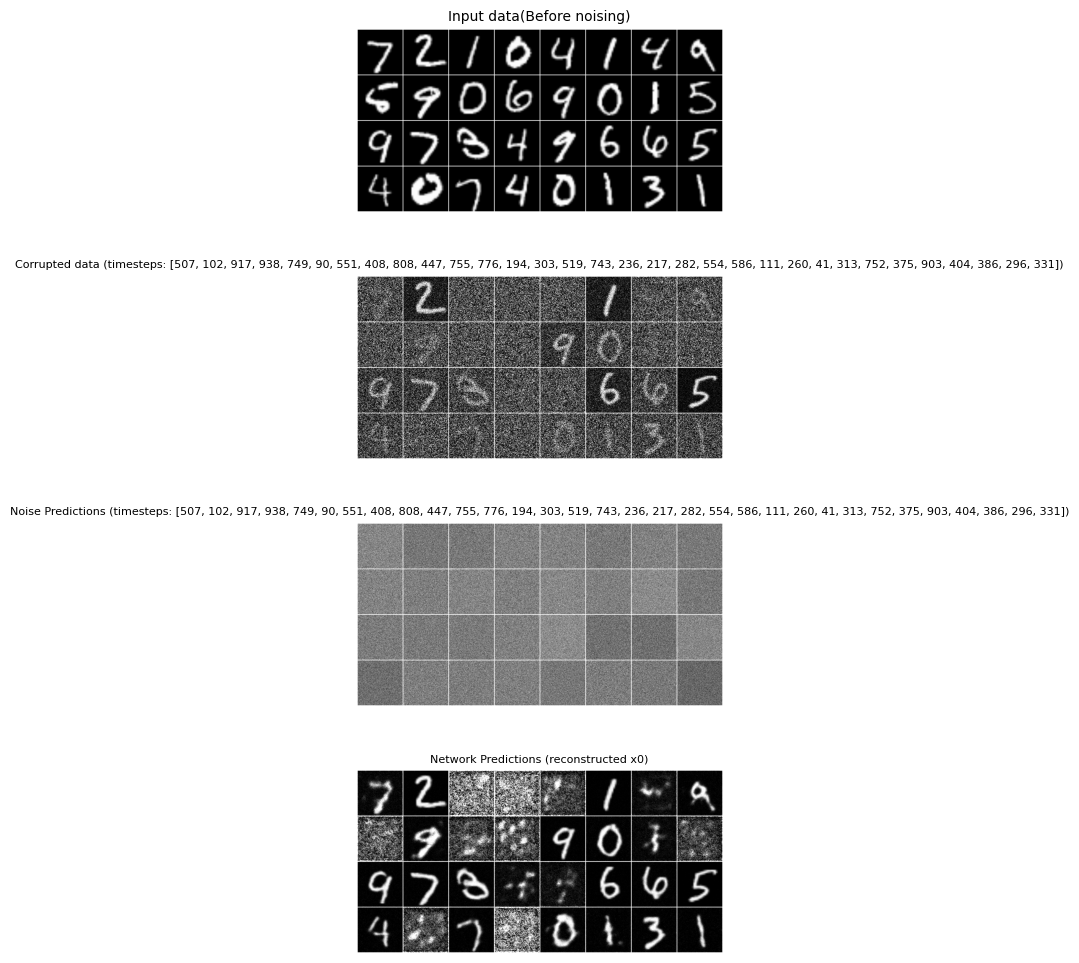
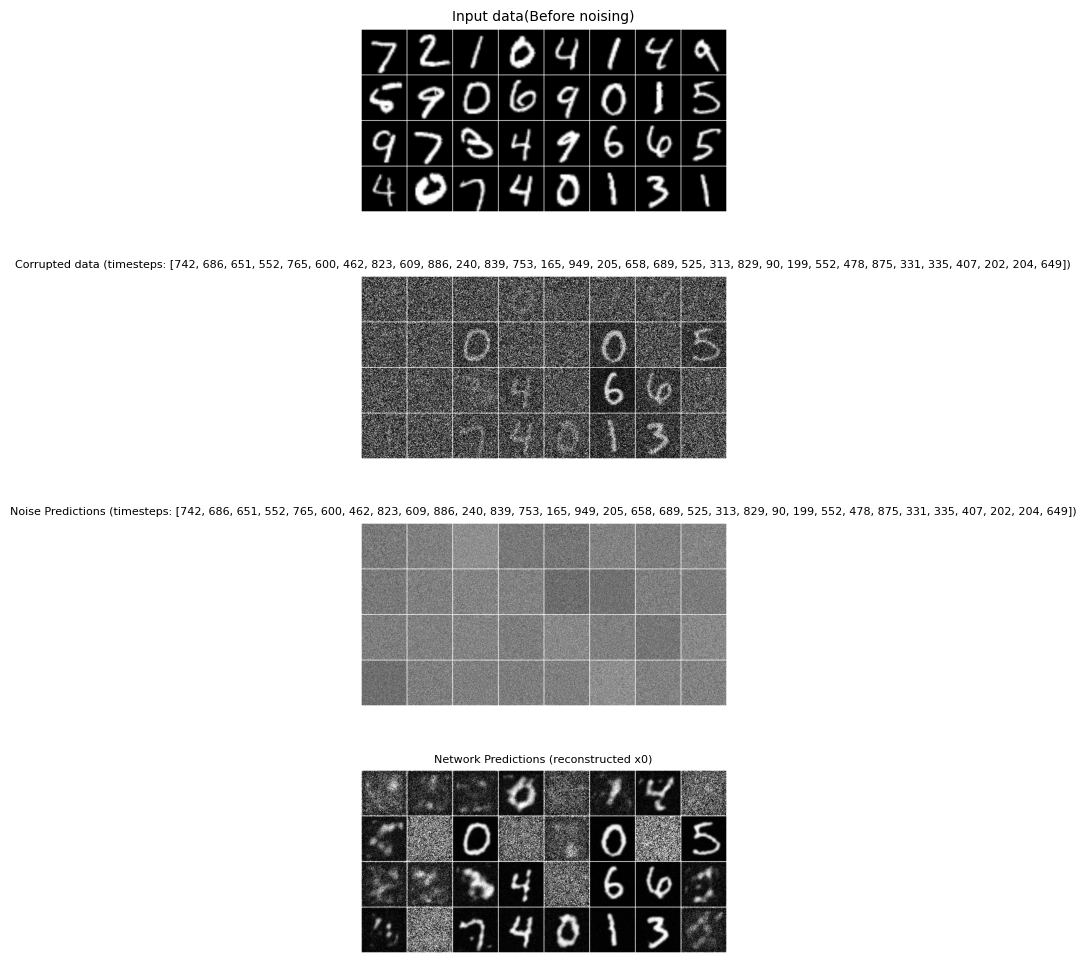
debug. checked samples for training, added sample analysis, ema during training and saved model for eval

diff --git a/train.py b/train.py
@@ -32,7 +32,7 @@ autocast_device = "cuda" if device.type == "cuda" else "cpu"
 # Sets scaler
 scaler = GradScaler()
 # ----------------------------------------------
-# TODO: Train for 300 epochs
+# TODO: Train for another 100 epochs on fresh model. Evaluate ema model also
 # ----------------------------------------------
 # *Parse command line arguments
 def parse_args():
@@ -53,6 +53,7 @@ if __name__ == "__main__":
     Test = args.test
     max_timesteps = args.max_timesteps
     Checkpoint = args.checkpoint
+    current_epoch = 0
     if Checkpoint:
         if not args.model_name:
             print("Warning: --checkpoint set but no --model_name provided. Exiting.")
@@ -68,12 +69,17 @@ if __name__ == "__main__":
         if m:
             current_epoch = int(m.group(1) or m.group(2))
             print(f"Resuming training from epoch {current_epoch}")
+            num_epochs = num_epochs - current_epoch
         else:
             current_epoch = 0
         
     else:
-        if os.path.isempty('models'):
+        if not os.path.exists('models'):
             print("No models directory found. Training from scratch.")
+            os.makedirs('models', exist_ok=True)
+            model_name = args.model_name
+        if os.path.exists('model') and not os.path.listdir('models'):
+            print("Models directory is empty. Training from scratch.")
             model_name = "model"
         else:
             model_name = args.model_name
@@ -123,16 +129,17 @@ if __name__ == "__main__":
     ema = ExponentialMovingAverage(model, decay=0.9999)
 
     if Checkpoint:
-        ckpt_file = os.path.join("models", "checkpoints", f"{model_name}_{'Batch_size_', batch_size}_{'Max_timesteps_', max_timesteps}{'_test' if Test else ''}_{current_epoch}.pth")
+        ckpt_file = os.path.join("models", "checkpoints", f"{model_name}.pth")
         ckpt = torch.load(ckpt_file, map_location=device)
         model.load_state_dict(ckpt["model_state_dict"])
         optimizer.load_state_dict(ckpt.get("optimizer_state_dict", {}))
         scaler.load_state_dict(ckpt.get("scaler_state_dict", {}))
+        ema.load_state_dict(ckpt.get("ema_state", {}))
         start_epoch = ckpt.get("epoch", 0)
         best_loss = ckpt.get("loss", best_loss)
     else:
         # if a pretrained stateless file is expected, map to device; skip if file missing
-        weights_file = os.path.join("models", f"{model_name}_{'Batch_size_', batch_size}_{'Max_timesteps_', max_timesteps}{'_test' if Test else ''}.pth")
+        weights_file = os.path.join("models", f"{model_name}_Batch_size_{batch_size}_Max_timesteps_{max_timesteps}{'_test' if Test else ''}.pth")
         if os.path.exists(weights_file):
             try:
                 model.load_state_dict(torch.load(weights_file, map_location=device))
@@ -159,7 +166,9 @@ if __name__ == "__main__":
     T = noise_scheduler.config.num_train_timesteps
 
     # *Training loop
-    for epoch in trange(num_epochs):
+    torch.autograd.set_detect_anomaly(False)   # enable True only when debugging
+    global_step = 0
+    for epoch in range(num_epochs):
         model.train()
         epoch_losses = []
         for batch in train_dataloader:
@@ -169,16 +178,18 @@ if __name__ == "__main__":
 
             timestep = torch.randint(0, T, (x.shape[0],), device=device, dtype=torch.long)
             noise = torch.randn_like(x, device=device)
-            # *Add noise to the images according to the noise magnitude at each timestep
             noisy_images = noise_scheduler.add_noise(x, noise, timestep)
-            # *Predict the noise using the model - the model learns to denoise
+
             optimizer.zero_grad()
             if device.type == "cuda":
                 # mixed precision only on CUDA
                 with autocast("cuda"):
                     noise_pred = model(noisy_images, timestep)
                     loss = loss_fn(noise_pred, noise)
+                # scale, backward, then unscale to clip grads safely
                 scaler.scale(loss).backward()
+                scaler.unscale_(optimizer)
+                torch.nn.utils.clip_grad_norm_(model.parameters(), max_norm=1.0)
                 scaler.step(optimizer)
                 scaler.update()
             else:
@@ -186,11 +197,28 @@ if __name__ == "__main__":
                 noise_pred = model(noisy_images, timestep)
                 loss = loss_fn(noise_pred, noise)
                 loss.backward()
+                torch.nn.utils.clip_grad_norm_(model.parameters(), max_norm=1.0)
                 optimizer.step()
 
+            # detect NaN/Inf loss
+            if torch.isnan(loss) or torch.isinf(loss):
+                print("NaN/Inf loss at step", global_step, "epoch", epoch)
+                torch.save(model.state_dict(), f"bad_state_step_{global_step}.pt")
+                raise RuntimeError("Stopping: loss became NaN/Inf")
+
+            # detect NaN outputs from model (run on a small forward, no grad)
+            with torch.no_grad():
+                out = model(noisy_images, timestep)
+                if torch.isnan(out).any():
+                    print("NaN in model output; stopping.")
+                    torch.save(model.state_dict(), f"bad_model_out_{global_step}.pt")
+                    raise RuntimeError("NaN in model output")
+
             epoch_losses.append(loss.item())
-            optimizer.step()
+
+            # EMA update should happen AFTER a successful optimizer.step()
             ema.update(model)
+            global_step += 1
             optimizer.zero_grad()
 
         scheduler_lr.step()
@@ -222,40 +250,53 @@ if __name__ == "__main__":
         # save best and periodic checkpoints
         if avg_val_loss < best_loss:
             best_loss = avg_val_loss
-            best_model_path = os.path.join(save_dir, f"best_{'Batch_size_', batch_size}_{'Max_timesteps_', max_timesteps}{'_test' if Test else ''}_model.pth")
+            best_model_path = os.path.join(save_dir, f"best_BS_{batch_size}_MaxT_{max_timesteps}{'_test' if Test else ''}_model.pth")
             torch.save({
                 "epoch": epoch + 1,
                 "model_state_dict": model.state_dict(),
                 "optimizer_state_dict": optimizer.state_dict(),
                 "scaler_state_dict": scaler.state_dict() if device.type == "cuda" else {},
+                "ema_state": ema.state_dict(),
                 "loss": best_loss
             }, best_model_path)
 
         if (epoch + 1) % save_every_epochs == 0:
-            ckpt_path = os.path.join(save_dir, f"model_{'Batch_size_', batch_size}_{'Max_timesteps_', max_timesteps}{'_test' if Test else ''}_{current_epoch+epoch+1}.pth")
+            ckpt_path = os.path.join(save_dir, f"model_BS_{batch_size}_MaxT_{max_timesteps}{'_test' if Test else ''}_{current_epoch+epoch+1}.pth")
             torch.save({
                 "epoch": epoch + 1,
                 "model_state_dict": model.state_dict(),
                 "optimizer_state_dict": optimizer.state_dict(),
                 "scaler_state_dict": scaler.state_dict() if device.type == "cuda" else {},
+                "ema_state": ema.state_dict(),
                 "loss": avg_val_loss
             }, ckpt_path)
-            torch.save({
-                "model_state": model.state_dict(),
-                "optimizer_state": optimizer.state_dict(),
-                "ema_state": ema.state_dict(),
-                "epoch": epoch,
-            }, f"checkpoints/ckpt_epoch_{epoch}.pt")
         # sample and save images for quick inspection
         if epoch % sample_every_epochs == 0:
             model.eval()
             with torch.no_grad():
+                ema.apply_shadow(model)
                 samples = sample_images(model, noise_scheduler, img_size=28, device=device, n=16, Test=True, debug=False)
+                ema.restore(model)
+                # sample_images may return (samples, intermediates) or a tensor/ndarray
+                if isinstance(samples, (list, tuple)):
+                    samples = samples[0]
             # save grid
-            torchvision.utils.save_image(samples, f"figures/samples_epoch_{epoch}.png", nrow=4, normalize=True)
+            os.makedirs("figures/samples", exist_ok=True)
+            torchvision.utils.save_image(samples, f"figures/samples/samples_epoch_{epoch}.png", nrow=4, normalize=True)
 
     print(f"\nBest model saved with loss {best_loss:.4f}")
     print("\nTraining complete.")
 
     # Save the model after training
-    torch.save(model.state_dict(), f"./models/{model_name}_{'Batch_size_', batch_size}_{'Max_timesteps_', max_timesteps}{'_test' if Test else ''}.pth")
+    torch.save(model.state_dict(), f"./models/{model_name}_BS_{batch_size}_MaxT_{max_timesteps}{'_test' if Test else ''}.pth")
+
+    # Save EMA state plus a copy of the model with EMA weights applied
+    torch.save({
+        "model_state_dict": model.state_dict(),
+        "ema_state": ema.state_dict(),
+    }, f"./models/{model_name}_BS_{batch_size}_MaxT_{max_timesteps}{'_test' if Test else ''}.pth")
+
+    # Also save a separate file with EMA weights applied to the model (for easy inference)
+    ema.apply_shadow(model)
+    torch.save(model.state_dict(), f"./models/{model_name}_EMA_BS_{batch_size}_MaxT_{max_timesteps}{'_test' if Test else ''}.pth")
+    ema.restore(model)

diff --git a/analyze_samples.py b/analyze_samples.py
@@ -1,0 +1,133 @@
+import os
+import sys
+from PIL import Image
+import numpy as np
+import matplotlib.pyplot as plt
+import csv
+
+samples_dir = r"d:\workspace\Text_to_image\figures\samples"
+out_dir = os.path.join(samples_dir, "analysis")
+os.makedirs(out_dir, exist_ok=True)
+
+# collect png files
+files = [os.path.join(samples_dir, f) for f in os.listdir(samples_dir) if f.lower().endswith(".png")]
+if not files:
+    print("No PNG files found in", samples_dir)
+    sys.exit(1)
+
+summary = []
+imgs = []
+names = []
+for path in sorted(files):
+    img = Image.open(path).convert("L")  # grayscale
+    arr = np.asarray(img).astype(np.float32) / 255.0
+    imgs.append(arr)
+    names.append(os.path.basename(path))
+    mn, mx, mean, std = float(arr.min()), float(arr.max()), float(arr.mean()), float(arr.std())
+    median = float(np.median(arr))
+    # contrast metric (std relative to mean)
+    contrast = std / (mean + 1e-8)
+    summary.append({
+        "file": os.path.basename(path),
+        "shape": arr.shape,
+        "min": mn,
+        "max": mx,
+        "mean": mean,
+        "median": median,
+        "std": std,
+        "contrast": contrast
+    })
+
+# write CSV summary
+csv_path = os.path.join(out_dir, "samples_summary.csv")
+with open(csv_path, "w", newline="") as f:
+    writer = csv.DictWriter(f, fieldnames=list(summary[0].keys()))
+    writer.writeheader()
+    writer.writerows(summary)
+print("Wrote summary to", csv_path)
+
+imgs = np.stack(imgs, axis=0)  # (N,H,W)
+N, H, W = imgs.shape
+print(f"Loaded {N} images, shape each: {H}x{W}")
+
+# global stats
+global_min = imgs.min()
+global_max = imgs.max()
+global_mean = imgs.mean()
+global_std = imgs.std()
+print("global min/max/mean/std:", global_min, global_max, global_mean, global_std)
+
+# per-pixel std across samples (shows where pixels vary)
+pixel_std = imgs.std(axis=0)  # HxW
+plt.figure(figsize=(4,4))
+plt.title("Per-pixel std across samples")
+plt.axis("off")
+plt.imshow(pixel_std, cmap="magma")
+plt.tight_layout()
+plt.savefig(os.path.join(out_dir, "per_pixel_std.png"), dpi=150)
+plt.close()
+
+# save histogram of pixel values aggregated across all images
+plt.figure(figsize=(5,3))
+plt.hist(imgs.ravel(), bins=100, color="gray")
+plt.title("Pixel value histogram (all samples)")
+plt.xlabel("pixel value (0-1)")
+plt.ylabel("count")
+plt.tight_layout()
+plt.savefig(os.path.join(out_dir, "pixel_histogram.png"), dpi=150)
+plt.close()
+
+# montage of few highest-variance images and lowest-variance
+stds = np.array([s["std"] for s in summary])
+order = np.argsort(stds)
+low_idx = order[:min(9, N)]
+high_idx = order[-min(9, N):][::-1]
+
+def save_montage(indices, fname):
+    k = len(indices)
+    cols = min(4, k)
+    rows = (k + cols - 1) // cols
+    fig, axs = plt.subplots(rows, cols, figsize=(cols*2, rows*2))
+    axs = np.atleast_2d(axs)
+    for i, idx in enumerate(indices):
+        r = i // cols
+        c = i % cols
+        axs[r,c].imshow(imgs[idx], cmap="gray", vmin=0, vmax=1)
+        axs[r,c].axis("off")
+        axs[r,c].set_title(f"{names[idx]}\nstd={stds[idx]:.4f}")
+    # hide unused axes
+    for i in range(k, rows*cols):
+        r = i // cols
+        c = i % cols
+        axs[r,c].axis("off")
+    plt.tight_layout()
+    plt.savefig(os.path.join(out_dir, fname), dpi=150)
+    plt.close()
+
+save_montage(low_idx, "lowest_variance_samples.png")
+save_montage(high_idx, "highest_variance_samples.png")
+
+# simple rules and warnings
+warns = []
+if global_std < 0.01:
+    warns.append("Very low global std -> generated images are nearly constant (collapse).")
+if 0.45 <= global_mean <= 0.55:
+    warns.append("Global mean near 0.5 -> images may be mid-gray (mapping issue: double-mapped or normalized incorrectly).")
+if len(warns) == 0:
+    warns.append("No immediate collapse/mid-gray warning from global stats.")
+print("Warnings:")
+for w in warns:
+    print(" -", w)
+
+# write a short text report
+report = os.path.join(out_dir, "report.txt")
+with open(report, "w") as f:
+    f.write("Summary of samples\n\n")
+    for s in summary:
+        f.write(f"{s['file']}: min={s['min']:.4f} max={s['max']:.4f} mean={s['mean']:.4f} std={s['std']:.6f} contrast={s['contrast']:.6f}\n")
+    f.write("\nGlobal min/max/mean/std: {:.6f}/{:.6f}/{:.6f}/{:.6f}\n\n".format(global_min, global_max, global_mean, global_std))
+    f.write("Warnings:\n")
+    for w in warns:
+        f.write(" - " + w + "\n")
+print("Report saved to", report)
+print("Analysis images saved to", out_dir)

diff --git a/eval.py b/eval.py
@@ -16,8 +16,6 @@ import os
 device = torch.device("cuda" if torch.cuda.is_available() else "cpu")
 autocast_device = "cuda" if device.type == "cuda" else "cpu"
 
-
-
 # *Parse command line arguments
 def parse_args():
     parser = argparse.ArgumentParser(description="Train UNet on MNIST or custom dataset")
@@ -77,15 +75,27 @@ out_ch = 1 if Test else 3
 model = BasicUNet(in_channels=in_ch, out_channels=out_ch).to(device) if args.model == "Basic" \
         else UNET(in_channels=in_ch, out_channels=out_ch).to(device)
 
+optimizer = torch.optim.Adam(model.parameters(), lr=1e-4)
+loss_fn = nn.MSELoss() # L2 loss for noise prediction
+scaler = torch.amp.GradScaler(enabled=(device.type == "cuda"))
+ema = ExponentialMovingAverage(model, decay=0.9999)
+
 if Test:
-    # Load the trained model weights
-    model.load_state_dict(torch.load(f"models/{model_name}_test.pth", weights_only=True))
+    if Checkpoint:
+        # Load from checkpoint
+        ckpt_file = os.path.join("models", "checkpoints", f"{model_name}.pth")
+        ckpt = torch.load(ckpt_file, map_location=device)
+        model.load_state_dict(ckpt["model_state_dict"])
+        optimizer.load_state_dict(ckpt.get("optimizer_state_dict", {}))
+        ema.load_state_dict(ckpt.get("ema_state", {}))
+    else:
+        # Load the trained model weights
+        model.load_state_dict(torch.load(f"models/{model_name}.pth", weights_only=True))
 else:
     # Load the trained model weights
     model.load_state_dict(torch.load(f"models/{model_name}.pth", weights_only=True))
 
-optimizer = torch.optim.Adam(model.parameters(), lr=1e-4)
-loss_fn = nn.MSELoss() 
+
 
 # Configurate the noise scheduler
 noise_scheduler = DDPMScheduler(
@@ -132,7 +142,6 @@ x0_pred = (noised_x - sqrt_one_minus_alpha_cumprod_t * pred) / (sqrt_alpha_cumpr
 
 # clamp for visualization in [0,1]
 denoised_vis = x0_pred.clamp(0.0, 1.0).cpu()
-ema = ExponentialMovingAverage(model, decay=0.9999)
 # generate samples from pure noise (utils.sample_images may return (samples, intermediates))
 ema.apply_shadow(model)            # swap in EMA weights
 samples = sample_images(model, noise_scheduler, img_size=28, device=device, n=16, Test=Test, debug=True, save_intermediates=False)
@@ -231,12 +240,6 @@ if len(ts_list) > 20:
     ts_str = str(ts_list[:pred_vis.shape[0]])[:-1] + "]"
 else:
     ts_str = str(ts_list)
-
-alpha_cumprod_t = alpha_cumprod[timestep].view(-1,1,1,1)
-sqrt_one_minus_alpha_cumprod_t = torch.sqrt(1.0 - alpha_cumprod_t)
-true_noise = (noised_x - torch.sqrt(alpha_cumprod_t) * x) / (sqrt_one_minus_alpha_cumprod_t + 1e-8)
-mse_eps = torch.mean((pred - true_noise).pow(2)).item()
-print(f"MSE(pred, true_eps) = {mse_eps:.6g}")
 
 # prepare visualization: normalize each sample independently to show structure
 def normalize_per_sample(tensor):
